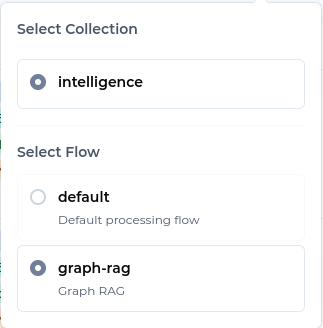
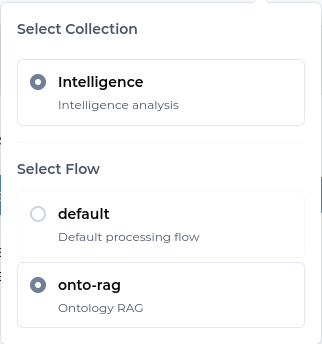
Ontology RAG updated

diff --git a/guides/ontology-rag/index.md b/guides/ontology-rag/index.md
@@ -226,6 +226,8 @@ At this point you should be looking at a structured view of the ontology.
 You can explore the structure of the ontology in this editor.  The ontology
 contains classes, properties and datatypes.
 
+<img src="ssn-ontology.png" alt="SSN ontology in ontology editor"/>
+
 ### Step 3: Create a Collection
 
 A collection is used to organise a set of related documents or data sources
@@ -311,7 +313,7 @@ You are ready to submit the document:
 - Go to the 'Library' page
 - Select the PHANTOM CARGO document so that the tick box is selected
 - Click 'Submit' at the bottom of the page
-- Change the Processing flow to Document RAG
+- Change the Processing flow to Ontology RAG
 - Click Submit
 
 From hereon, everything is very similar to GraphRAG.
@@ -324,7 +326,7 @@ login user is admin, password admin.  Grafana is configured with a single
 dashboard.  Some useful things to monitor are:
 
 The pub/sub backlog.  You can monitor the size of queues in Pulsar.
-GraphRAG knowledge extraction causes a queue of chunks for processing in
+Knowledge extraction causes a queue of chunks for processing in
 knowledge extraction and you can see this in the backlog:
 
 <img src="monitoring1.png" alt="Pub/sub backlog graph"/>
@@ -358,7 +360,7 @@ should only see a 'blip' on the backlog showing that chunks were loaded
 and cleared quickly.
 
 It can take many minutes or hours to process large documents or large document
-sets using GraphRAG extraction.
+sets using Ontology RAG extraction.
 
 ### Step 7: Retrieval
 
@@ -454,7 +456,7 @@ to navigate relationships.  This adds further nodes to the graph.
 You can rotate the graph and navigate 3D space using the mouse /
 pointer controls.
 
-## Document RAG vs. Other Approaches
+## Ontology RAG vs. Other Approaches
 
 | Aspect | Document RAG | Graph RAG | Ontology RAG |
 |--------|--------------|-----------|--------------|
@@ -472,7 +474,7 @@ data.
 
 ### Explore Other RAG Types
 
-- **[Ontology RAG](../ontology-rag)** - Use structured schemas for extraction
+- **[GraphRAG](../graph-rag)** - Schema-free automated knowledge extraction
 
 ### Advanced Features
 

diff --git a/guides/graph-rag/index.md b/guides/graph-rag/index.md
@@ -215,7 +215,7 @@ You are ready to submit the document:
 - Go to the 'Library' page
 - Select the PHANTOM CARGO document so that the tick box is selected
 - Click 'Submit' at the bottom of the page
-- Change the Processing flow to Document RAG
+- Change the Processing flow to GraphRAG
 - Click Submit
 
 ### Step 5: Monitoring
@@ -345,7 +345,7 @@ to navigate relationships.  This adds further nodes to the graph.
 You can rotate the graph and navigate 3D space using the mouse /
 pointer controls.
 
-## Document RAG vs. Other Approaches
+## GraphRAG vs. Other Approaches
 
 | Aspect | Document RAG | Graph RAG | Ontology RAG |
 |--------|--------------|-----------|--------------|
